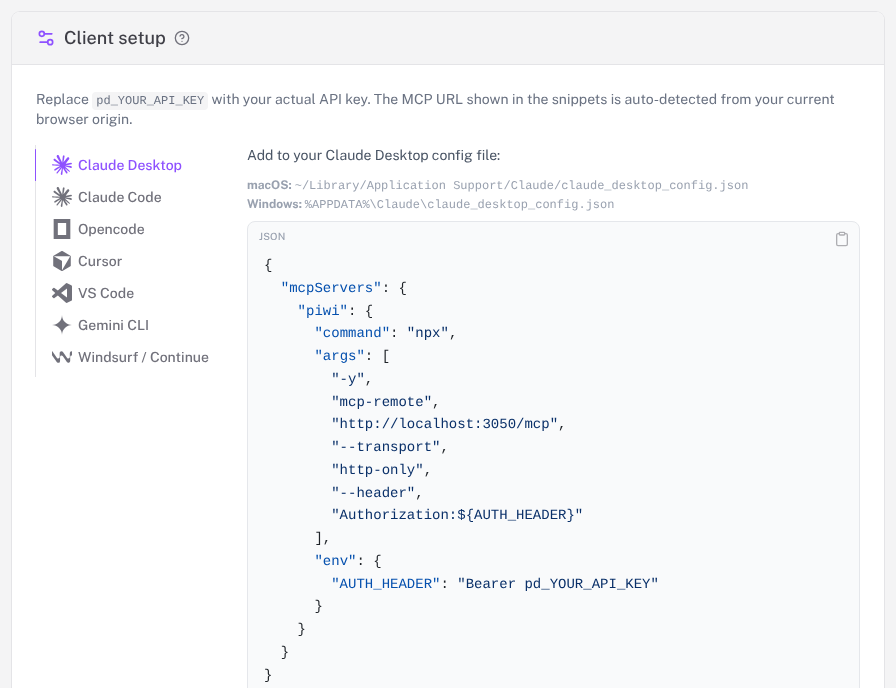
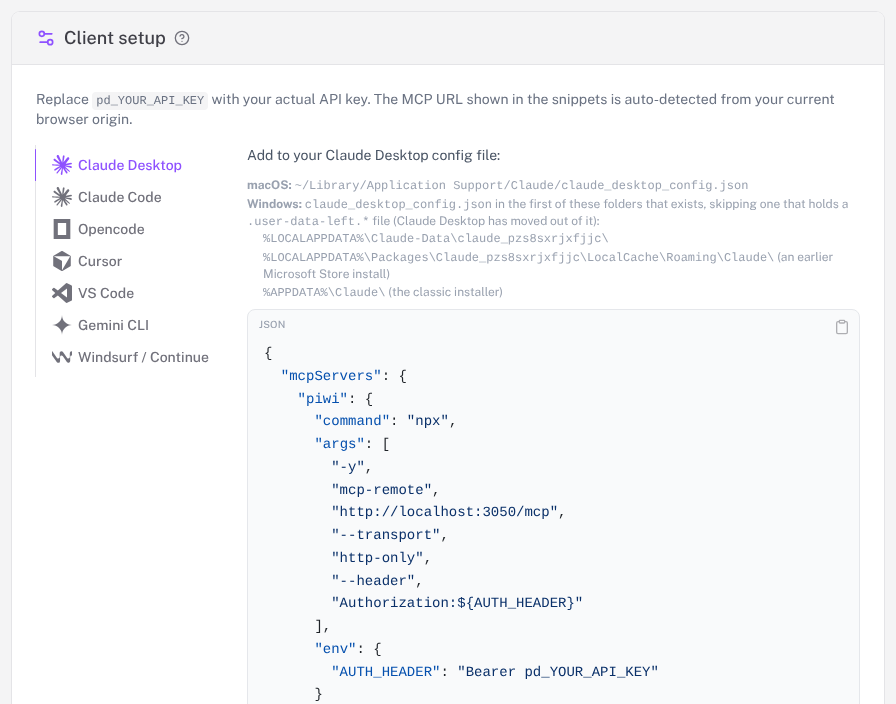
fix(app): list every windows folder claude desktop keeps its config in
The MCP page and the MCP docs gave %APPDATA%\Claude\ as the only Windows
location of claude_desktop_config.json. A Microsoft Store install reads it
from its package container, and recent builds from
%LOCALAPPDATA%\Claude-Data\claude_pzs8sxrjxfjjc\. Both now list the three
folders in the order Claude Desktop uses them, and how to tell a folder it
has moved out of.

Claude-Session: https://claude.ai/code/session_018v8tRWYfCAbQcj5znpcQFc

diff --git a/apps/application/app/pages/mcp.vue b/apps/application/app/pages/mcp.vue
@@ -398,8 +398,21 @@ const windsurfSnippet = computed(() =>
                       <code class="font-mono">~/Library/Application Support/Claude/claude_desktop_config.json</code>
                     </li>
                     <li>
-                      <strong>Windows:</strong>{{ ' ' }}
-                      <code class="font-mono">%APPDATA%\Claude\claude_desktop_config.json</code>
+                      <strong>Windows:</strong> <code class="font-mono">claude_desktop_config.json</code> in the first
+                      of these folders that exists, skipping one that holds a
+                      <code class="font-mono">.user-data-left.*</code> file (Claude Desktop has moved out of it):
+                      <ul class="pl-4 space-y-0.5">
+                        <li>
+                          <code class="font-mono break-all">%LOCALAPPDATA%\Claude-Data\claude_pzs8sxrjxfjjc\</code>
+                        </li>
+                        <li>
+                          <code class="font-mono break-all"
+                            >%LOCALAPPDATA%\Packages\Claude_pzs8sxrjxfjjc\LocalCache\Roaming\Claude\</code
+                          >
+                          (an earlier Microsoft Store install)
+                        </li>
+                        <li><code class="font-mono break-all">%APPDATA%\Claude\</code> (the classic installer)</li>
+                      </ul>
                     </li>
                   </ul>
                   <CodeBlock :code="claudeDesktopSnippet" lang="json" />

diff --git a/apps/docs/features/mcp.md b/apps/docs/features/mcp.md
@@ -90,8 +90,13 @@ writes their entry in one click instead.
 
 ### Claude Desktop
 
-Add to `claude_desktop_config.json` (`~/Library/Application Support/Claude/` on macOS, `%APPDATA%\Claude\` on
-Windows), then restart Claude Desktop:
+Add to `claude_desktop_config.json`, then restart Claude Desktop. On macOS it is in
+`~/Library/Application Support/Claude/`. On Windows it is in the first of these folders that exists, skipping one that
+holds a `.user-data-left.*` file (Claude Desktop has moved out of it):
+
+- `%LOCALAPPDATA%\Claude-Data\claude_pzs8sxrjxfjjc\`
+- `%LOCALAPPDATA%\Packages\Claude_pzs8sxrjxfjjc\LocalCache\Roaming\Claude\`, an earlier Microsoft Store install
+- `%APPDATA%\Claude\`, the classic installer
 
 ```json
 {
